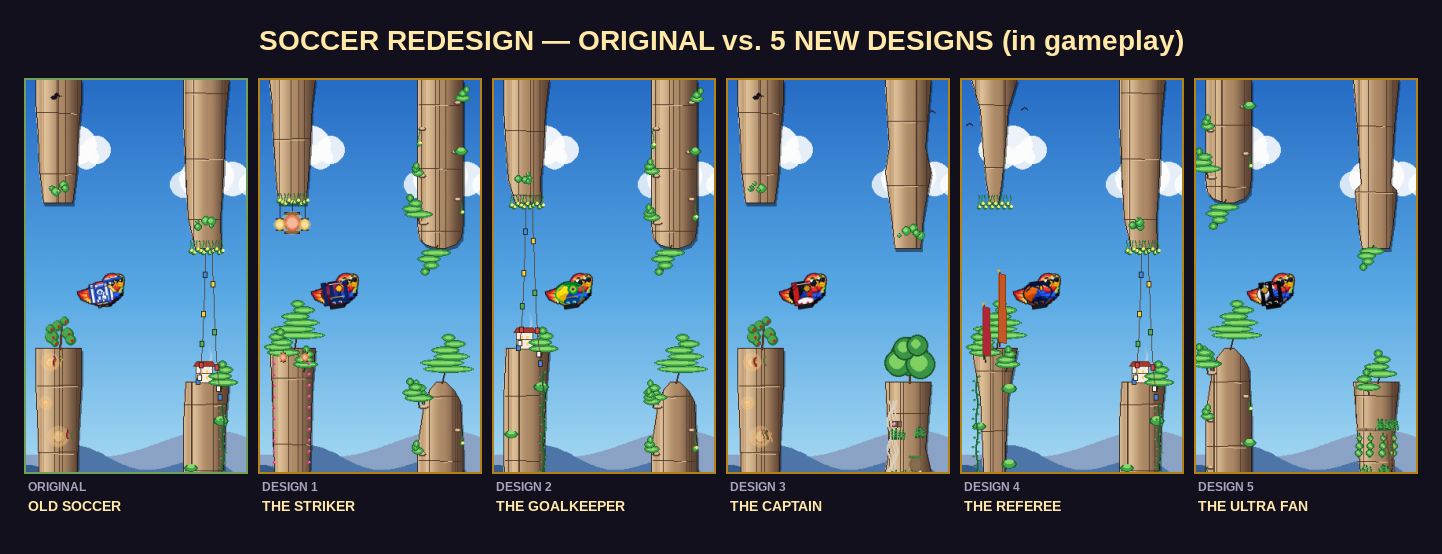
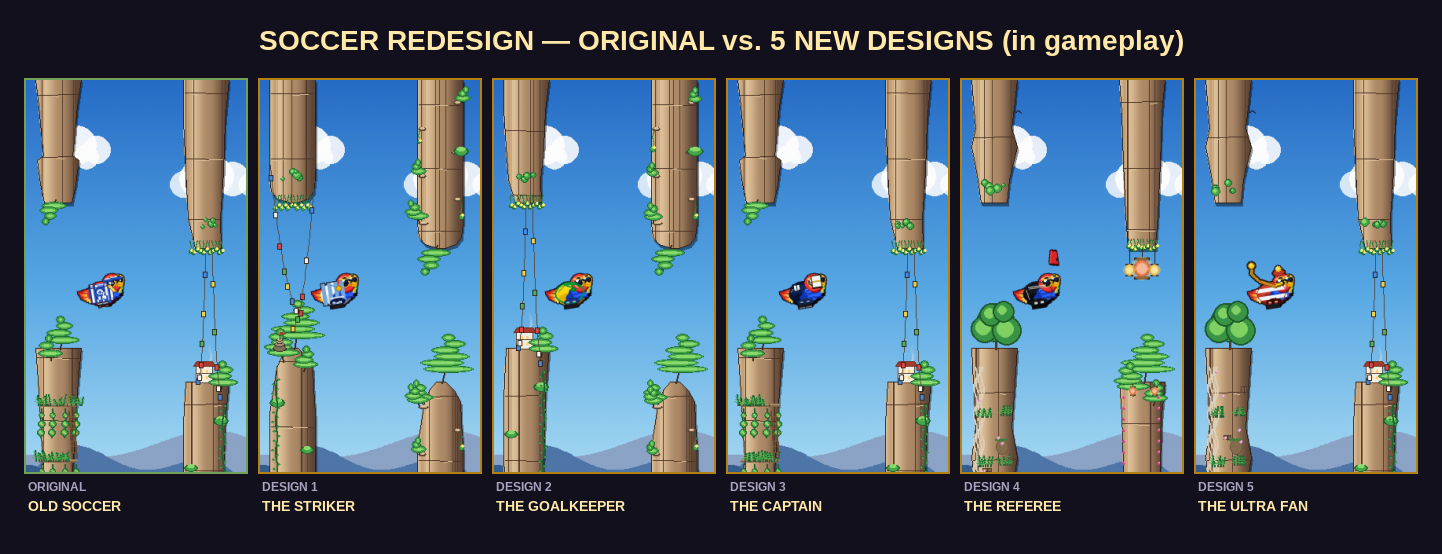
Soccer v9 D1 R1: Argentina Albiceleste sky-blue stripes
Claude-Session: https://claude.ai/code/session_01HafGQfRZVDiGkQqpJPr5Cm

diff --git a/tools/soccer_candidates/design_1.py b/tools/soccer_candidates/design_1.py
@@ -1,16 +1,14 @@
-"""Soccer v7 Design 1 — THE STRIKER (body-recolor approach).
+"""Soccer v9 Design 1 — ARGENTINA "LA ALBICELESTE" (body-recolor approach).
 
-The previous take anchored a flat jersey polygon to the head, so it only
-covered the head-side of the body and missed the belly entirely. This
-version makes the JERSEY the body itself: the macaw's body oval is
-re-plumaged white through the palette system (exactly like the ninja skin
-recolors the whole bird), while the head stays macaw-red and the wings stay
-macaw-blue. On top of that white torso the _paint pass adds the kit trim
-that reads as football — a navy V-collar, a diagonal royal-blue sash, the
-squad number "9", royal-blue shorts, hooped socks, and cleats.
+The jersey IS the body: the macaw's torso oval is re-plumaged white through
+the palette system (like the ninja skin recolors the whole bird), while the
+head stays macaw-red and the wings stay macaw-blue. Over that white torso the
+_paint pass lays the four sky-blue vertical stripes that make the kit instantly
+read as Argentina — plus a sky-blue V-collar, the golden Sol de Mayo crest, deep
+navy shorts, sky-hooped socks, and near-black cleats.
 
-At 40px the read is a white-bodied bird with blue shorts and a red-hooped
-sock line — a striker, not a recolor. Head/wings keep the macaw identity.
+At 40px the read is a white-and-sky-striped bird with navy shorts — the
+Albiceleste — while the head/wings/beak keep the macaw identity.
 """
 import pygame
 
@@ -21,28 +19,27 @@ from game.draw import (
 )
 
 # ── kit trim colours (drawn in _paint, over the white body) ──────────────────
-_ROYAL    = ( 26,  62, 160)   # #1A3EA0 royal-blue shorts + sash + collar
-_ROYAL_D  = ( 16,  40, 112)   # darker royal for the shorts outline / seams
-_SASH_H   = ( 85, 136, 255)   # #5588FF bright-blue sash highlight
-_NAVY     = ( 20,  40, 110)   # navy V-collar + squad-number "9"
-_SASH     = ( 26,  62, 160)   # #1A3EA0 navy-royal sash — separated from red
+_SKY      = (117, 170, 219)   # #75AADB Argentina sky-blue stripes + collar + hoop
+_SKY_D    = ( 92, 142, 190)   # slightly deeper sky for the collar underline
+_NAVY     = ( 11,  27,  77)   # #0B1B4D deep-navy shorts
+_NAVY_D   = (  6,  15,  45)   # darker navy rim for the shorts leg-line
+_GOLD     = (255, 185,   0)   # Sol de Mayo gold disc + rays
+_GOLD_D   = (176, 120,   0)   # dark ring so the sun reads as a disc, not a dot
 _JRS_W    = (240, 240, 245)   # jersey white, reused to notch the shorts crotch
-_SCK      = (240, 240, 245)   # #F0F0F5 white sock
-_SCK_RED  = (192,  57,  43)   # #C0392B red sock hoop
+_SCK      = (245, 245, 250)   # white sock shank
 _CLEAT    = ( 28,  28,  36)   # #1C1C24 near-black cleat
-_CLEAT_SL = (232, 120,  32)   # #E87820 bright-orange sole stripe
 
 # The body oval is re-plumaged WHITE so the jersey IS the body colour. Head
-# stays macaw-red, wings stay macaw-blue, aviator shades stay gold-framed —
-# so only the torso reads as the kit and the bird keeps its identity.
+# stays macaw-red, wings stay macaw-blue — so only the torso reads as the kit
+# and the bird keeps its identity.
 _PAL = _pal(
     tail=[(200, 30, 40), (240, 95, 40), (255, 160, 55), (255, 220, 80)],
     tail_line=(170, 25, 25),
-    body_shadow=(180, 185, 205),      # jersey back-half shade (rounds torso)
+    body_shadow=(185, 188, 205),      # jersey back-half shade (rounds torso)
     body_main=(240, 240, 245),        # jersey white field
-    body_chest=(248, 248, 252),       # lit chest
+    body_chest=(250, 250, 252),       # lit chest
     body_belly=(215, 218, 230),       # slightly cooler belly
-    sheen=(255, 255, 255, 120),
+    sheen=(255, 255, 255, 100),
     wing_main=BIRD_WING,              # keep macaw-blue wings
     wing_dark=BIRD_WING_D,
     wing_tip=BIRD_TIP,
@@ -72,59 +69,58 @@ def _base(angle_deg):
 
 def _paint(surf, _a):
     # All geometry here is in COMPOSITE space (the 64×100 canvas). The body is
-    # already white from _base, so the trim below is what turns the recolor
-    # into a striker's kit.
+    # already white from _base; the trim below turns the recolor into the kit.
 
-    # Shoulder/sleeve seams — a light arc from the neck base over each wing
-    # root. Without this the white body reads as a belly patch; the seam makes
-    # the wing look like it emerges from a fabric sleeve, so the whole torso
-    # reads as a worn jersey wrapping the form.
-    pygame.draw.line(surf, (170, 175, 200), (BCX + 8, BCY - 11), (BCX + 17, BCY - 5), 2)
-    pygame.draw.line(surf, (170, 175, 200), (BCX - 6, BCY - 11), (BCX - 14, BCY - 5), 2)
+    # Sky-blue vertical stripes — the signature Albiceleste graphic. Clipped to
+    # the body oval bounding rect so the stripes stop at the torso edge instead
+    # of bleeding onto the wings/tail; four evenly-spaced 5px bars across 38px.
+    body_rect = pygame.Rect(BCX - 19, BCY - 14, 38, 28)
+    old_clip = surf.get_clip()
+    surf.set_clip(body_rect)
+    for x in (BCX - 17, BCX - 9, BCX - 1, BCX + 7):
+        pygame.draw.rect(surf, _SKY, (x, BCY - 14, 5, 28))
+    surf.set_clip(old_clip)
 
-    # V-collar — a small navy triangle notched at the head/body junction, so
-    # the white jersey reads as a collared shirt right under the red head.
-    _poly(surf, _NAVY, [(HX - 3, HY + 6), (HX + 2, HY + 6), (HX, HY + 10)])
+    # V-neck collar in sky-blue — two lines meeting just below the head, so the
+    # striped jersey reads as a collared shirt right under the red head.
+    pygame.draw.line(surf, _SKY, (BCX - 6, BCY - 12), (BCX + 2, BCY - 8), 2)
+    pygame.draw.line(surf, _SKY, (BCX + 8, BCY - 12), (BCX + 2, BCY - 8), 2)
+    pygame.draw.line(surf, _SKY_D, (BCX - 6, BCY - 11), (BCX + 2, BCY - 7), 1)
 
-    # Diagonal NAVY sash across the BODY (not the head) — navy, not royal, so it
-    # never collides with the macaw-red head; the single bold graphic stripe
-    # that carries the "team kit" read at 40px.
-    pygame.draw.line(surf, _SASH, (BCX - 8, BCY - 8), (BCX + 6, BCY + 2), 2)
-    pygame.draw.line(surf, _SASH_H, (BCX - 8, BCY - 9), (BCX + 6, BCY + 1), 1)
+    # Sol de Mayo crest — a gold disc with a dark ring so it reads as a sun, and
+    # a handful of 1px rays radiating outward. The national sun on the chest is
+    # what pins the kit to Argentina specifically.
+    cxs, cys = BCX + 5, BCY - 5
+    for dx, dy in ((0, -6), (0, 6), (-6, 0), (6, 0),
+                   (-4, -4), (4, -4), (-4, 4), (4, 4)):
+        ex = cxs + (dx * 3) // 6
+        ey = cys + (dy * 3) // 6
+        pygame.draw.line(surf, _GOLD, (cxs, cys),
+                         (cxs + dx // 3, cys + dy // 3), 1)
+    pygame.draw.circle(surf, _GOLD_D, (cxs, cys), 4)
+    pygame.draw.circle(surf, _GOLD, (cxs, cys), 3)
 
-    # Squad number "9" on the open white chest — a BOLD navy ring with a longer
-    # tail so it fills real jersey height and reads as a numeral, not a dot.
-    pygame.draw.circle(surf, _NAVY, (BCX + 2, BCY - 5), 4, 2)
-    pygame.draw.line(surf, _NAVY, (BCX + 5, BCY - 3), (BCX + 2, BCY + 2), 2)
-
-    # Jersey hem — a 1px light ellipse so the white shirt bottom separates from
-    # the royal shorts below instead of fusing into one dark kit blob.
+    # Jersey hem — a 1px light ellipse so the striped shirt bottom separates from
+    # the navy shorts below instead of fusing into one dark kit blob.
     pygame.draw.ellipse(surf, (220, 222, 232), (BCX - 9, BCY + 5, 20, 2), 1)
 
-    # Royal-blue shorts, lifted a touch so the hem line reads above them; a
-    # darker rim keeps the leg-line crisp against the white torso.
-    pygame.draw.ellipse(surf, _ROYAL, (BCX - 9, BCY + 6, 20, 9))
-    pygame.draw.ellipse(surf, _ROYAL_D, (BCX - 9, BCY + 6, 20, 9), 1)
+    # Deep-navy shorts, with a darker rim so the leg-line stays crisp against
+    # the white-and-sky torso.
+    pygame.draw.ellipse(surf, _NAVY, (BCX - 9, BCY + 7, 20, 9))
+    pygame.draw.ellipse(surf, _NAVY_D, (BCX - 9, BCY + 7, 20, 9), 1)
     # Crotch notch so the two leg tubes read as separate legs, not a skirt.
     _poly(surf, _JRS_W,
           [(BCX - 1, BCY + 12), (BCX + 3, BCY + 12), (BCX + 1, BCY + 15)])
 
-    # Socks — white shanks with a red turn-over hoop, one per leg. Shortened to
-    # leave a clean gap above the cleats so the kit stack stays legible.
+    # Socks — white shanks with a sky-blue turn-over hoop, one per leg. Shortened
+    # to leave a clean gap above the cleats so the kit stack stays legible.
     for sx in (27, 35):
         pygame.draw.line(surf, _SCK, (sx, BCY + 11), (sx, BCY + 16), 4)
-        pygame.draw.line(surf, _SCK_RED, (sx, BCY + 12), (sx, BCY + 14), 3)
+        pygame.draw.line(surf, _SKY, (sx, BCY + 12), (sx, BCY + 14), 3)
 
-    # Light rim between the blue wing edge and the dark cleats — keeps the
-    # wing + shorts + cleats from fusing into one bottom blob.
-    pygame.draw.line(surf, (210, 215, 225), (BCX - 16, BCY + 3), (BCX - 12, BCY + 9), 1)
-
-    # Cleats — near-black boots below the socks with a visible gap, plus a
-    # bright-orange sole stripe so the studs read against dark ground at 40px.
+    # Cleats — near-black boots below the socks with a visible gap.
     for cx in (23, 31):
         pygame.draw.rect(surf, _CLEAT, (cx, BCY + 14, 9, 5), border_radius=1)
-        pygame.draw.line(surf, _CLEAT_SL,
-                         (cx, BCY + 18), (cx + 8, BCY + 18), 2)
 
 
 build = _make_skin(_paint, base_fn=_base)
